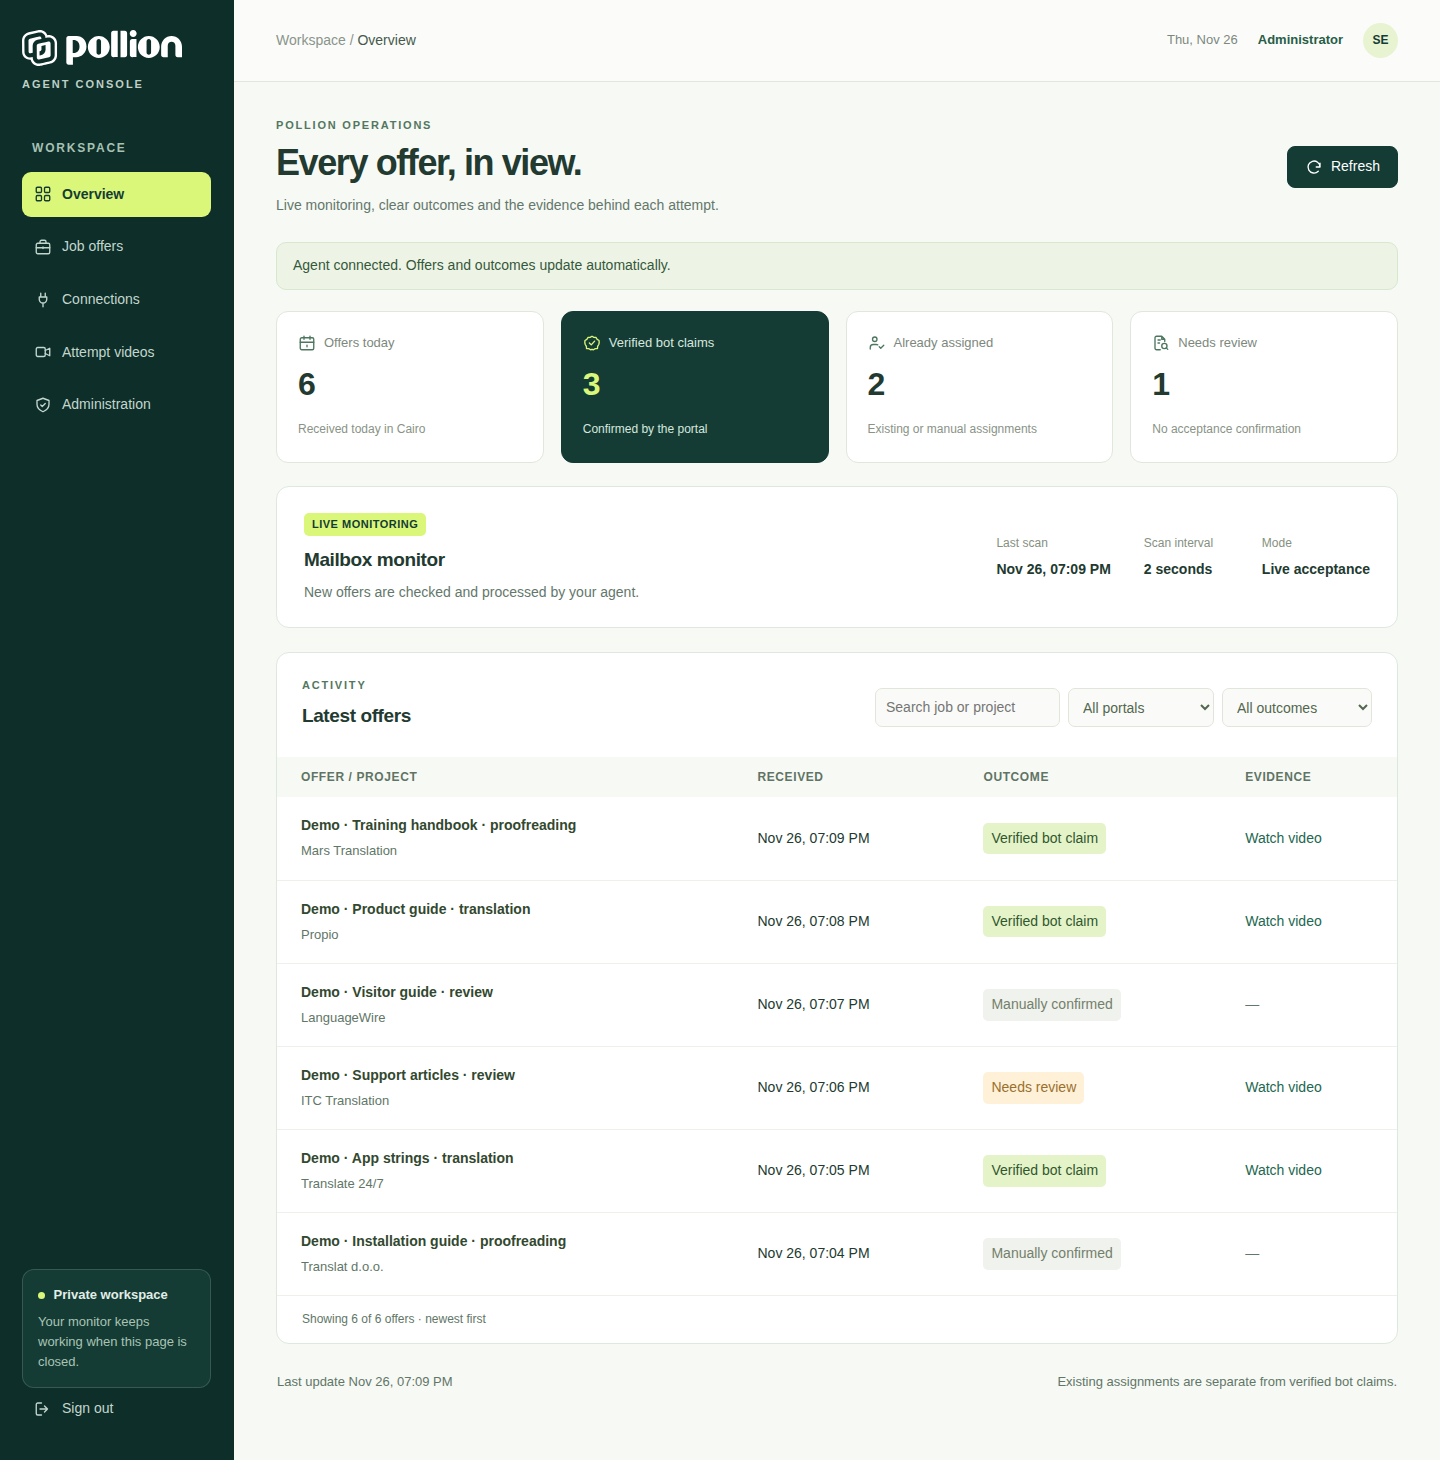
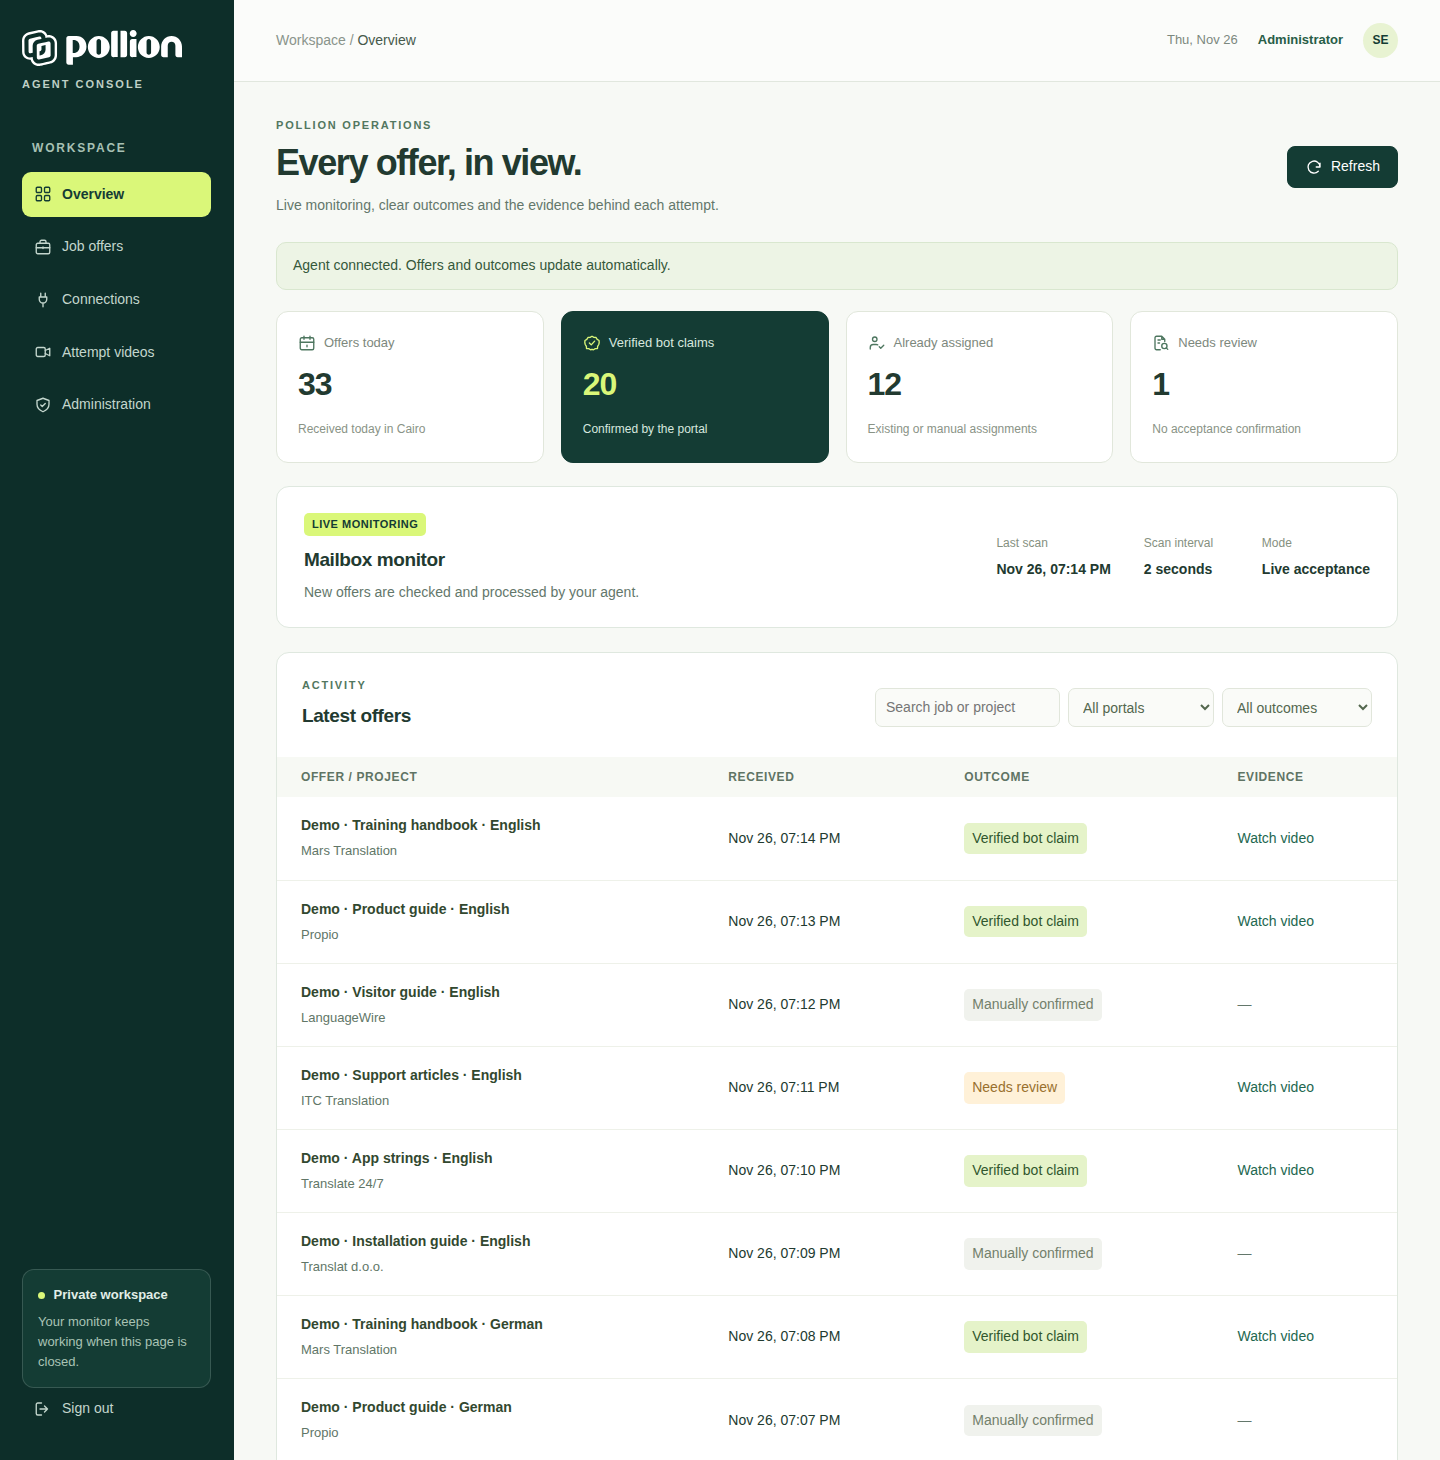
Show 20 verified claims and 12 manual assignments in the demo

diff --git a/README.md b/README.md
@@ -14,7 +14,7 @@ This repository is a **public project overview**. The implementation is maintain
 
 The overview shows how many offers arrived today and whether the agent verified a claim, found an existing assignment or flagged an offer for review. Each of the four cards has its own icon on desktop and mobile. Operators can open individual offers and review attempt recordings.
 
-![Demo dashboard showing three verified bot claims, two manual assignments, one offer needing review and four Watch video buttons in the Evidence column](docs/images/agent-console-v12.png)
+![Demo dashboard showing 20 verified bot claims, 12 manual assignments, one offer needing review and Watch video buttons in the Evidence column](docs/images/agent-console-v12.png)
 
 *This screenshot uses fictional offers. “Watch video” shows where operators can open an attempt recording in the private console.*
 
